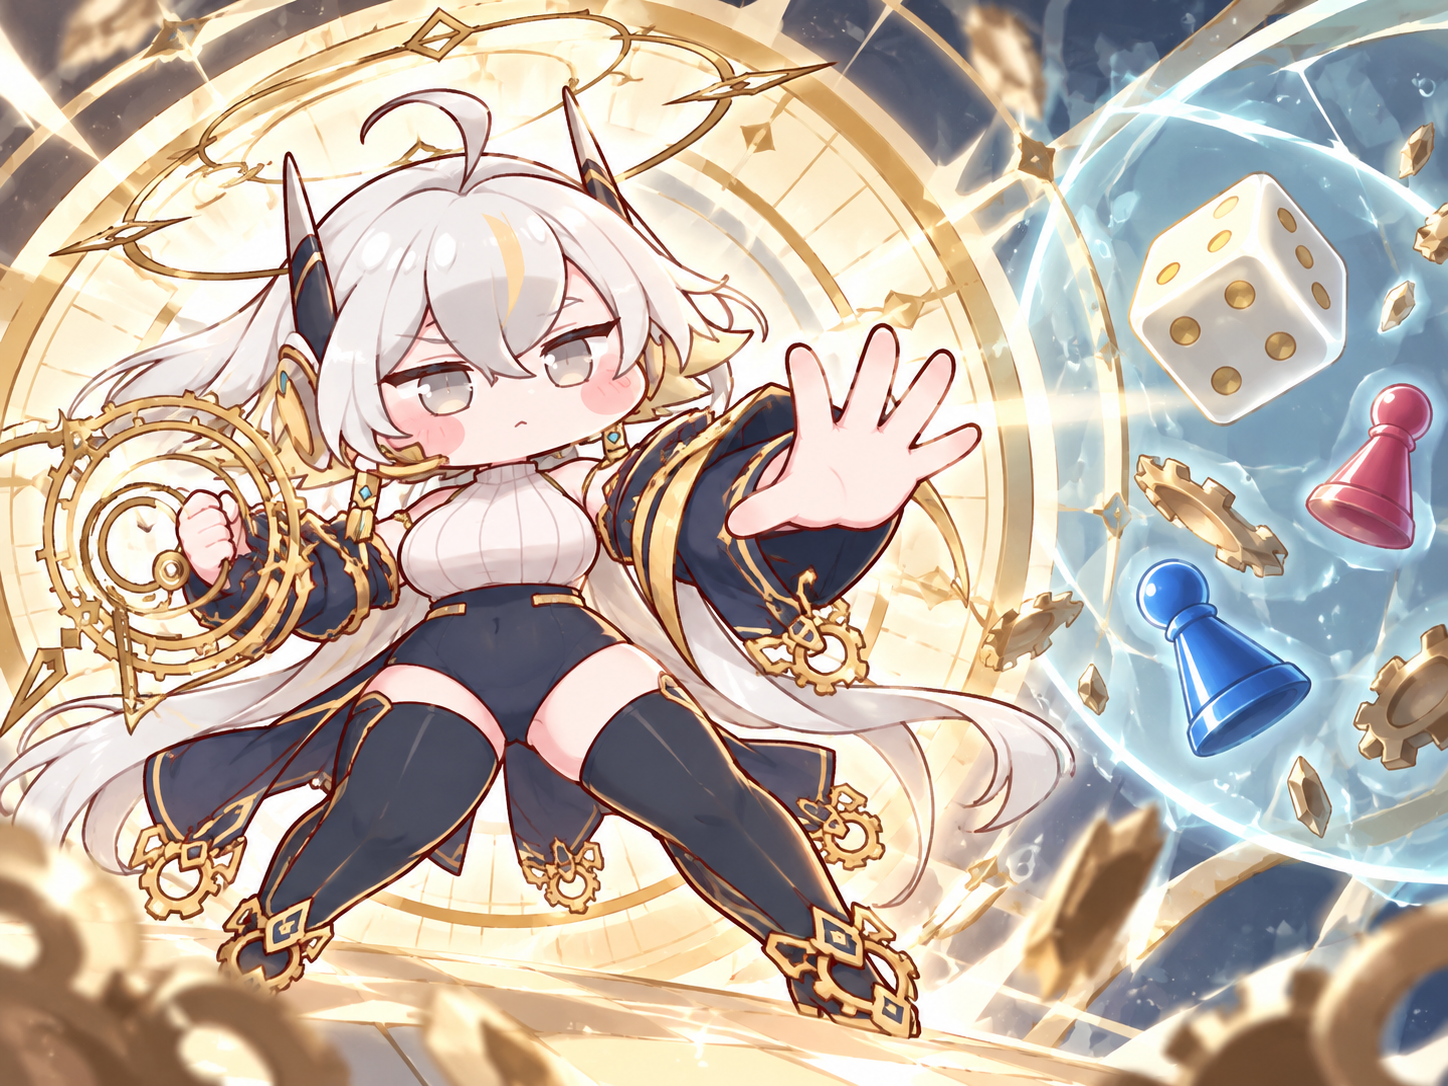
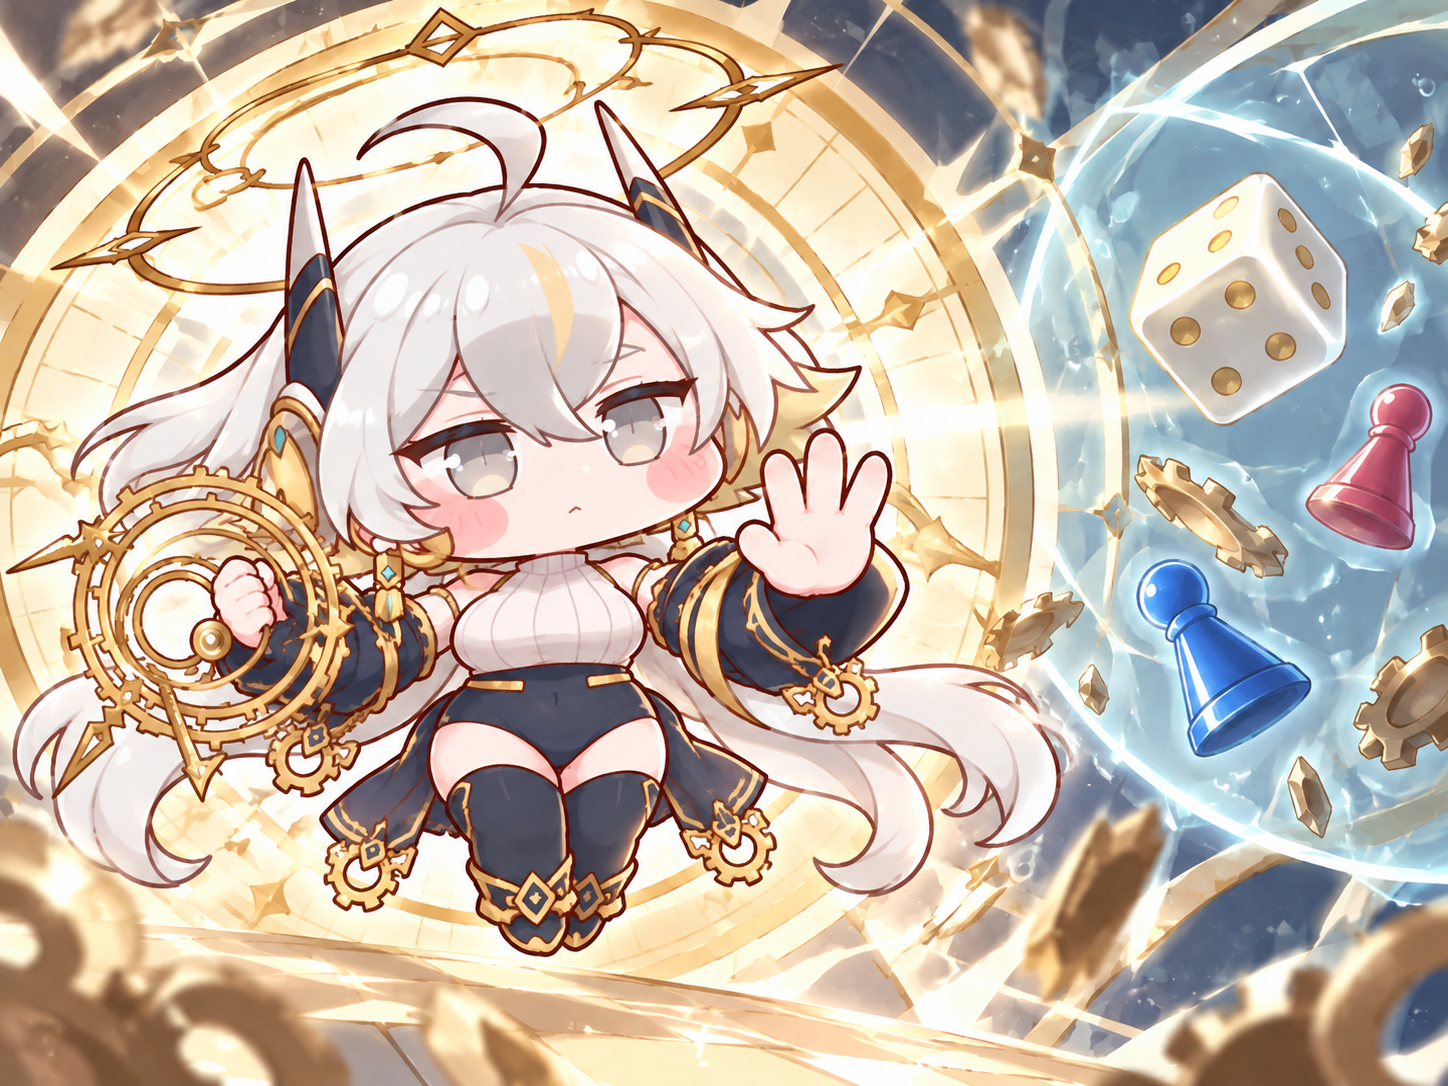
Correct Renewa card to chibi proportions and four-digit hands

diff --git a/assets/cards/README.md b/assets/cards/README.md
@@ -12,6 +12,8 @@
 
 2026-10-20 (캐릭터 삽화 수정): ACT_10은 헤일리의 양손 빠루 내려찍기, ACT_12는 리뉴아의 시간 정지, ACT_14는 아멜리아의 금지 도장, ACT_15는 앨리스의 금지 카드 포즈로 교체했다. 밑장빼기·어디로든 문은 유지했다. [수정 기록](../../docs/ui-trial/card-actions-v02.md).
 
+2026-10-20 (리뉴아 v3): ACT_12를 큰 머리·작은 몸통·짧은 팔다리의 2등신 치비로 수정했다. 펼친 손은 엄지 1개 + 나머지 손가락 3개로 고쳤다. 시간 정지 구도와 기본 복장은 유지했다.
+
 공통 표시 코드는 `scenes/card_skin.gd`. 손패·드래그·발동 알림·미리보기·확대에서 같은 자산을 읽는다. 삽화 전체가 들어오도록 비율을 유지해 중앙 정렬하고 둥근 창 안쪽에 클립한다. 제목·효과·종류·사용 상태는 실제 게임 데이터와 ONE Mobile POP 서체로 표시한다.
 
 게임 규칙·카드명·효과 문구는 이번 삽화 연결에서 변경하지 않는다. 다른 작업에서 추가된 ACT_04 긴급 로켓 부스터(+3) 변경을 함께 반영했고, 엘레나 전진 장면을 그대로 연결했다. 숨겨진 상대 손패와 보드상의 비공개 함정에는 앞면을 노출하지 않는다.

diff --git a/docs/ui-trial/card-actions-v02.md b/docs/ui-trial/card-actions-v02.md
@@ -11,4 +11,6 @@
 
 기존 ACT_11 밑장빼기와 ACT_13 어디로든 문은 유지했다. 게임 효과·카드명·카드 데이터는 바꾸지 않았다. 특히 더 월드의 시간 정지는 삽화 표현이며 실제 효과는 기존의 추가 한 턴이다.
 
+리뉴아 v3 수정: ACT_12의 길어진 신체 비율을 큰 머리와 작은 몸통·짧은 팔다리의 치비 비율로 되돌리고, 손을 엄지 포함 4개 손가락으로 바로잡았다. 다리는 짧게 모으고 손의 과한 원근감을 줄였다. 기존 시간 정지와 복장을 유지하며 다른 카드는 수정하지 않았다. 원본·프롬프트·백업과 실제 카드 검수는 outputs/cards-renewa-chibi-v03에 보관한다.
+
 내장 이미지 생성 도구를 사용했다. 원본 1448×1086 PNG를 바이트 변경 없이 저장하고 기존 1024px 임포트 설정과 UID를 유지했다. 최신 파일 해시는 assets/cards/illustrations.json의 character-v2 항목에 기록했다. 원본·교체 전 백업·참조 출처·프롬프트·실제 CardSkin 및 MainBoard 검수 화면은 outputs/cards-actions-v02에 보관했다.
